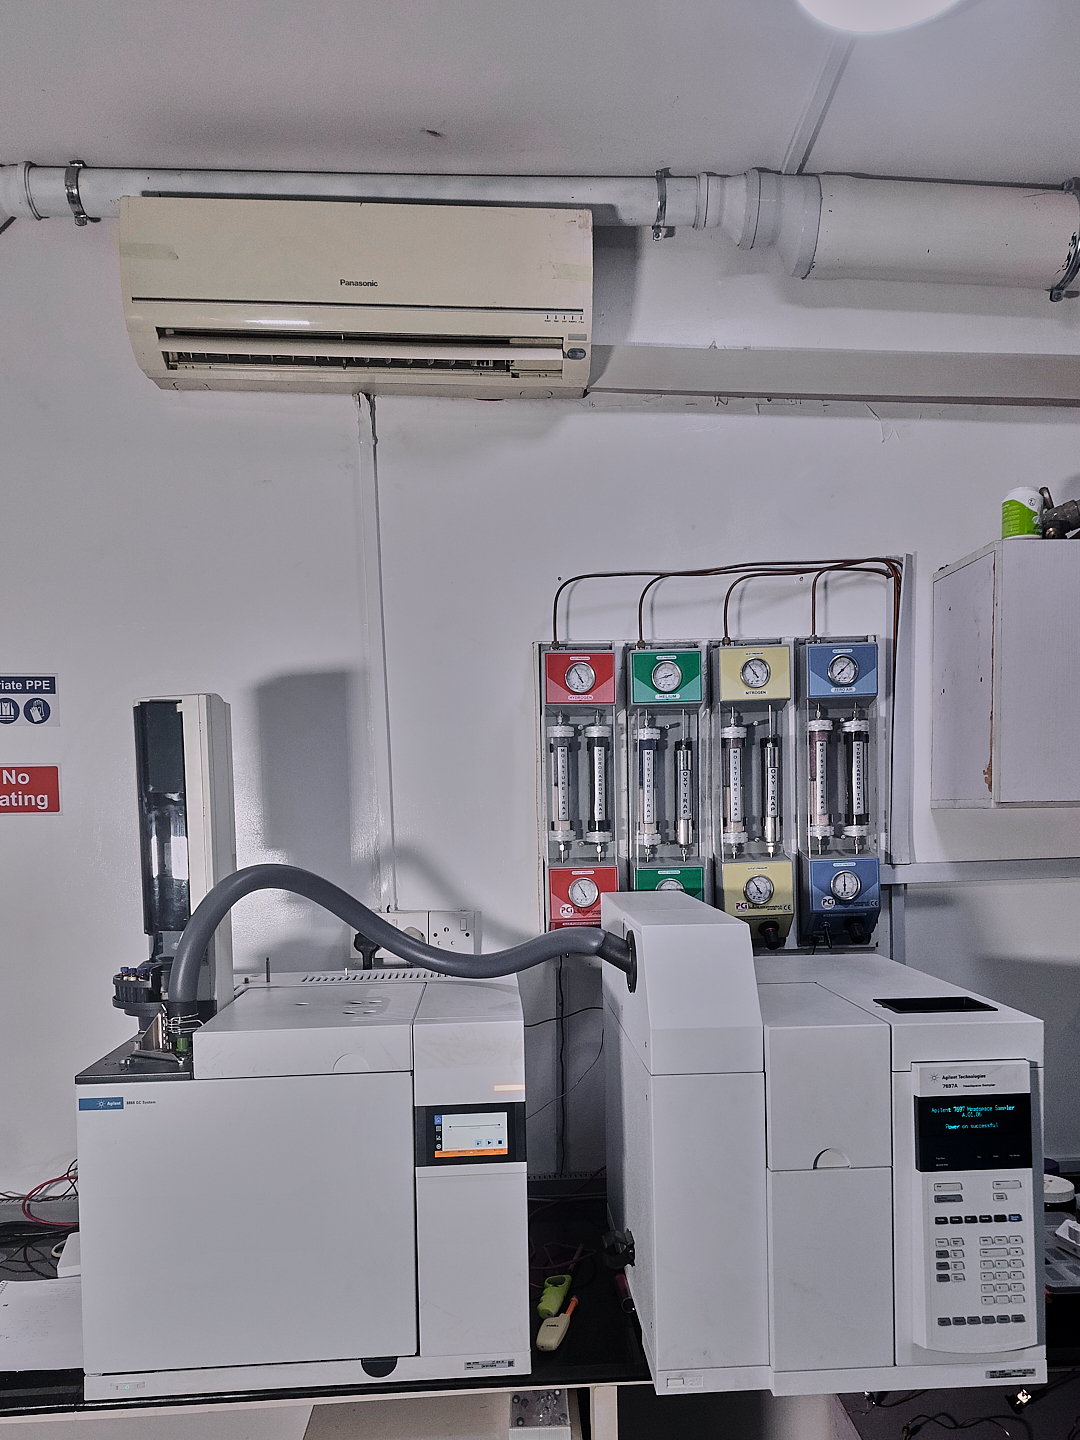
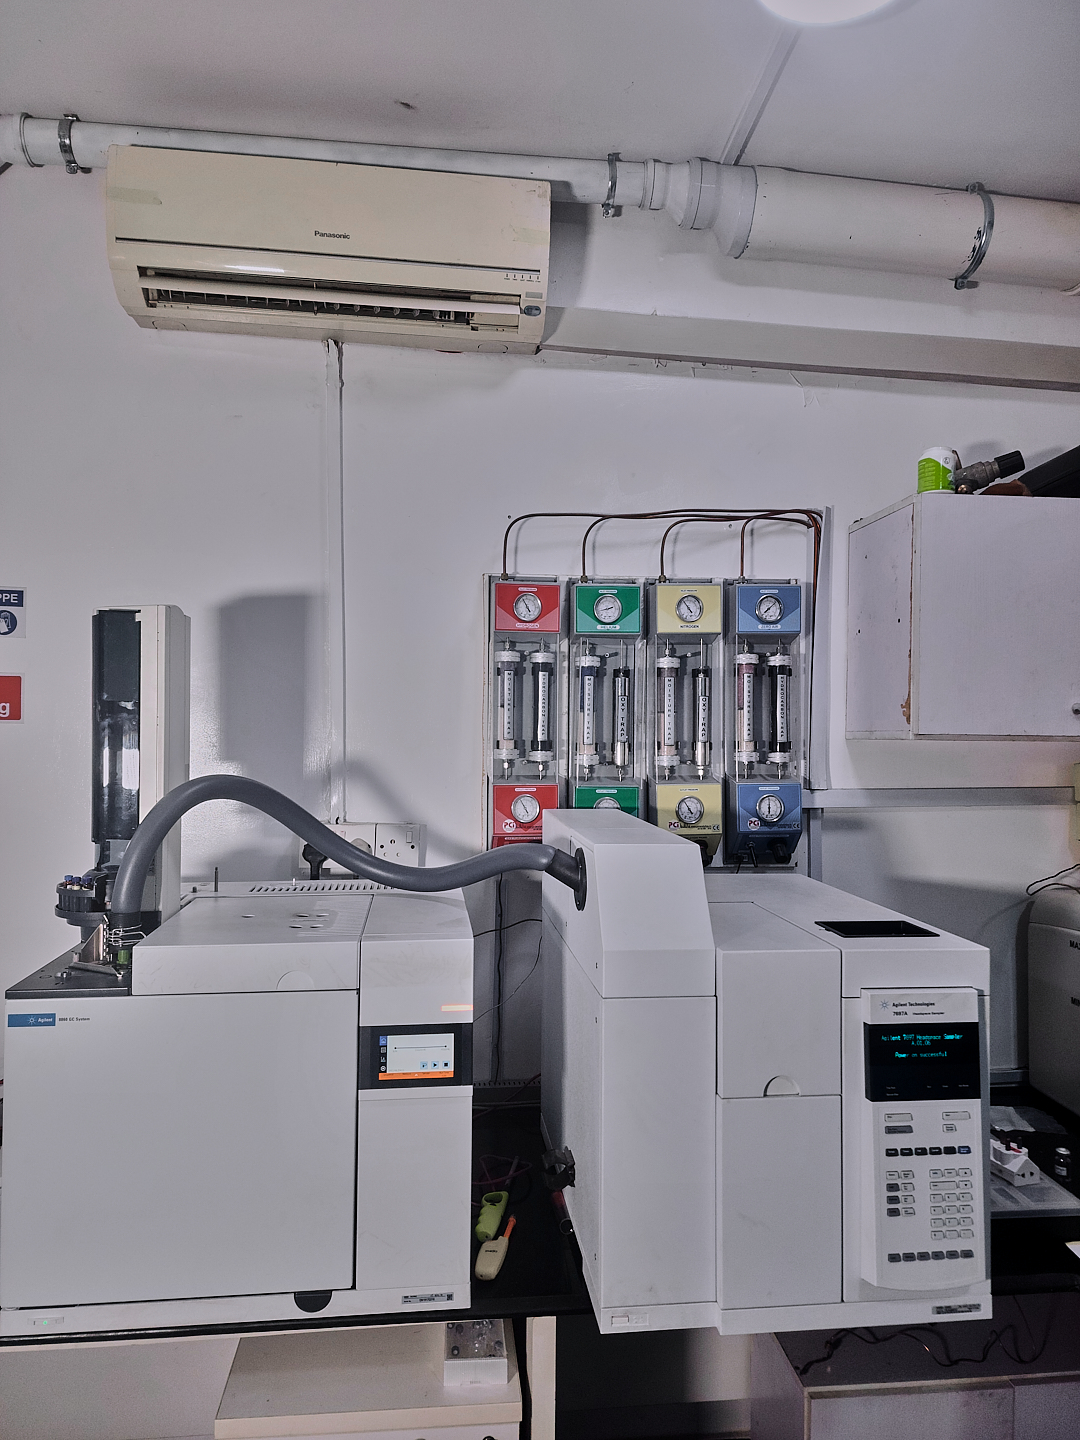
adjustment

diff --git a/src/components/landingpage/Hero.jsx b/src/components/landingpage/Hero.jsx
@@ -44,7 +44,7 @@ export default function Hero() {
           </div>
 
           <div className="lg:col-span-4">
-            <div className="relative overflow-hidden rounded-2xl bg-[#c8ec8d] min-h-107 shadow-lg group">
+            <div className="relative overflow-hidden rounded-2xl bg-linear-to-r from-[#0b6879] via-[#014a58] to-[#033741] min-h-107 shadow-lg group">
 
               <div className="absolute top-0 right-0 w-[42%] h-30 overflow-hidden rounded-bl-[50px]">
                 <img
@@ -55,15 +55,15 @@ export default function Hero() {
               </div>
 
               <div className="absolute bottom-10 px-8">
-                <h3 className="text-3xl font-medium text-gray-950 leading-tight">
+                <h3 className="text-3xl font-medium text-gray-50 leading-tight">
                   Pesticide residue testing by GC-MSD
                 </h3>
 
-                <p className="mt-5 text-lg font-light text-[#031a1f]">
+                <p className="mt-5 text-lg font-light text-gray-50">
                   Achieve low ppb detection of various pesticide residues in food products
                 </p>
 
-                <button className="mt-8 inline-flex items-center gap-2 text-[#031a1f] font-bold text-xl hover:gap-4 transition-all">
+                <button className="mt-8 inline-flex items-center gap-2 text-gray-50 font-bold text-xl hover:gap-4 transition-all">
                   Discover more
                   <ArrowUpRight size={22} />
                 </button>
@@ -74,26 +74,20 @@ export default function Hero() {
           {/* BOTTOM LEFT CARD */}
 
           <div className="lg:col-span-6">
-            <div className="relative overflow-hidden rounded-2xl bg-[#033741] min-h-68 shadow-lg group">
-              {/* Pink Shape */}
-
-              <div className="absolute top-0 right-0 w-50 h-25 bg-[#c8ec8d] rounded-bl-[90px]" />
-
-              {/* Blue Shape */}
-
-              <div className="absolute bottom-0 right-10 w-33 h-13 bg-[#c8ec8d] rounded-t-[40px]" />
+            <div className="relative overflow-hidden rounded-2xl bg-[#c8ec8d] min-h-68 shadow-lg group">
+           
 
 
-              <div className="absolute left-8 bottom-8 text-white max-w-md">
-                <h3 className="text-3xl font-medium text-white">
+              <div className="absolute left-8 bottom-8  max-w-md">
+                <h3 className="text-3xl font-medium text-gray-950 leading-tight">
                   Nutritional Profiling by HPLC
                 </h3>
 
-                <p className="mt-4 text-lg font-light text-gray-50">
+                <p className="mt-4 text-lg font-light text-gray-950">
                  Quantify fat/water soluble vitamins and amino acids in foods at high resolution.
                 </p>
 
-                <button className="mt-4 inline-flex items-center gap-2 text-white font-bold text-xl hover:gap-4 transition-all">
+                <button className="mt-4 inline-flex items-center gap-2 text-gray-950 font-bold text-xl hover:gap-4 transition-all">
                   Discover more
                   <ArrowUpRight size={22} />
                 </button>
@@ -103,22 +97,18 @@ export default function Hero() {
 
 
           <div className="lg:col-span-6">
-            <div className="relative overflow-hidden rounded-2xl bg-[#033741] min-h-68 shadow-lg group">
+            <div className="relative overflow-hidden rounded-2xl bg-[#c8ec8d] min-h-68 shadow-lg group">
 
-
-              <div className="absolute top-0 left-0 w-14 h-10 bg-[#c8ec8d] rounded-br-[30px]" />
-
-              
               <div className="absolute left-8 top-12 max-w-md">
-                <h3 className="text-3xl font-medium text-white leading-tight">
+                <h3 className="text-3xl font-medium text-gray-950 leading-tight">
                   Trace Organic Pollutant Analysis by GC-MSD
                 </h3>
 
-                <p className="mt-4 text-lg font-light text-gray-50">
+                <p className="mt-4 text-lg font-light text-gray-950">
                   Definitive identification and ultra-trace quantification of environmental and industrial contaminants
                 </p>
 
-                <button className="mt-4 inline-flex items-center gap-2 text-white font-bold text-xl hover:gap-4 transition-all">
+                <button className="mt-4 inline-flex items-center gap-2 text-gray-950 font-bold text-xl hover:gap-4 transition-all">
                  discover now
                   <ArrowUpRight size={22} />
                 </button>
@@ -127,7 +117,7 @@ export default function Hero() {
           </div>
 
           <div className="lg:col-span-8">
-            <div className="relative overflow-hidden rounded-2xl bg-[#033741] min-h-107 shadow-lg group">
+            <div className="relative overflow-hidden rounded-2xl bg-linear-to-r from-[#0b6879] via-[#014a58] to-[#033741] min-h-107 shadow-lg group">
 
               <div className="absolute top-0 right-0 w-[40%] h-[60%] overflow-hidden rounded-bl-[90px]">
                 <img
@@ -139,7 +129,7 @@ export default function Hero() {
 
 
               <div className="absolute bottom-12 left-8 lg:left-10 max-w-lg">
-                <h2 className="text-3xl  font-medium text-white">
+                <h2 className="text-3xl  font-medium text-green-50">
                  Non-Target Screening by GC-MS
                 </h2>
 
@@ -156,7 +146,7 @@ export default function Hero() {
           </div>
 
           <div className="lg:col-span-4">
-            <div className="relative overflow-hidden rounded-2xl bg-[#c8ec8d] min-h-105 shadow-lg group">
+            <div className="relative overflow-hidden rounded-2xl bg-linear-to-r from-[#0b6879] via-[#014a58] to-[#033741] min-h-105 shadow-lg group">
 
 
               <div className="absolute top-0 right-0 w-[42%] h-[30%] overflow-hidden rounded-bl-[50px]">
@@ -168,15 +158,15 @@ export default function Hero() {
               </div>
 
               <div className="absolute bottom-10 px-8">
-                <h3 className="text-3xl font-medium text-gray-950 leading-tight">
+                <h3 className="text-3xl font-medium text-gray-50 leading-tight">
                 Quantitative Phenolics & Flavonoids Analysis
                 </h3>
 
-                <p className="mt-5 text-lg font-light text-gray-950">
+                <p className="mt-5 text-lg font-light text-gray-50">
                 High-resolution profiling of bioactive polyphenols and structural phytochemical markers using HPLC and derivatized GC-MS.
                 </p>
 
-                <button className="mt-8 inline-flex items-center gap-2 text-[#031a1f] font-bold text-xl hover:gap-4 transition-all">
+                <button className="mt-8 inline-flex items-center gap-2 text-gray-50 font-bold text-xl hover:gap-4 transition-all">
                   Discover More
                   <ArrowUpRight size={22} />
                 </button>

diff --git a/src/components/landingpage/Stat.jsx b/src/components/landingpage/Stat.jsx
@@ -1,7 +1,7 @@
 import { motion, AnimatePresence  } from "framer-motion";
 import { ChevronRight } from "lucide-react";
 import { Link } from "react-router-dom";
-import heroBackground from "../../assets/images/heros.jpg";
+import heroBackground from "../../assets/images/hero..jpeg";
 import { useState, useEffect } from "react";
 
 
@@ -77,7 +77,7 @@ export default function HeroSection() {
               items-center
             "
           >
-            <div className="px-8 md:px-16 lg:px-24 py-20 w-full">
+            <div className="px-8 md:px-16 lg:px-24 py-24 w-full">
               {/* Title */}
               <h1 className="text-5xl md:text-6xl lg:text-7xl font-medium text-gray-900 leading-tight max-w-5xl">
                 {heroSlides[currentSlide].title}